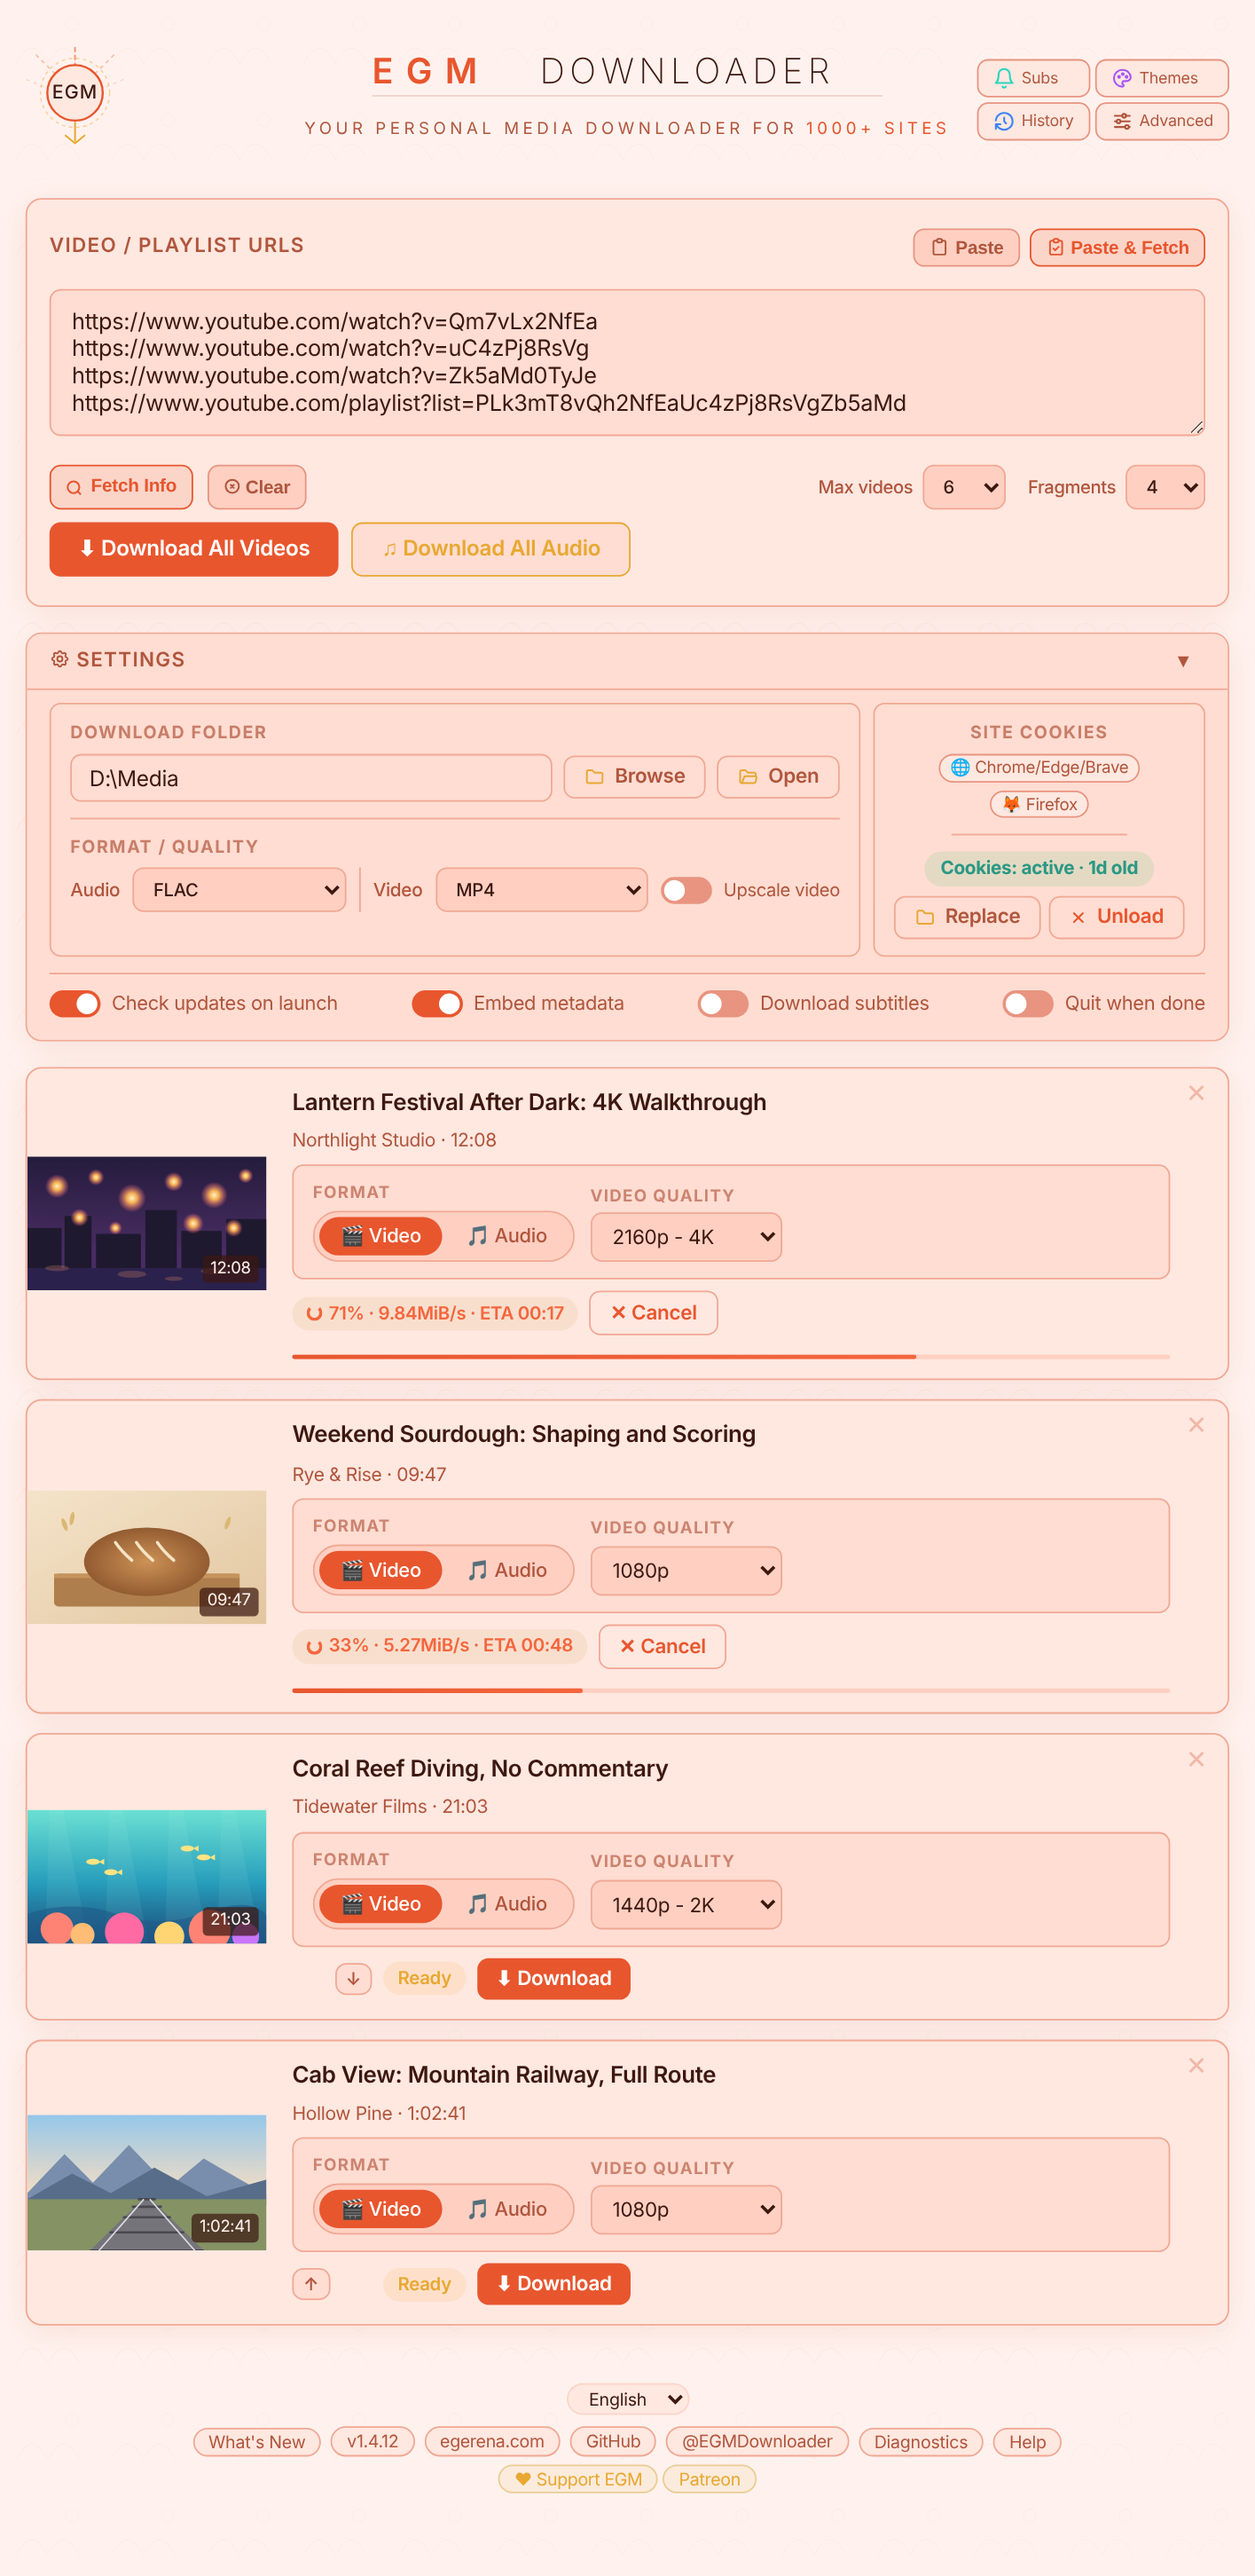
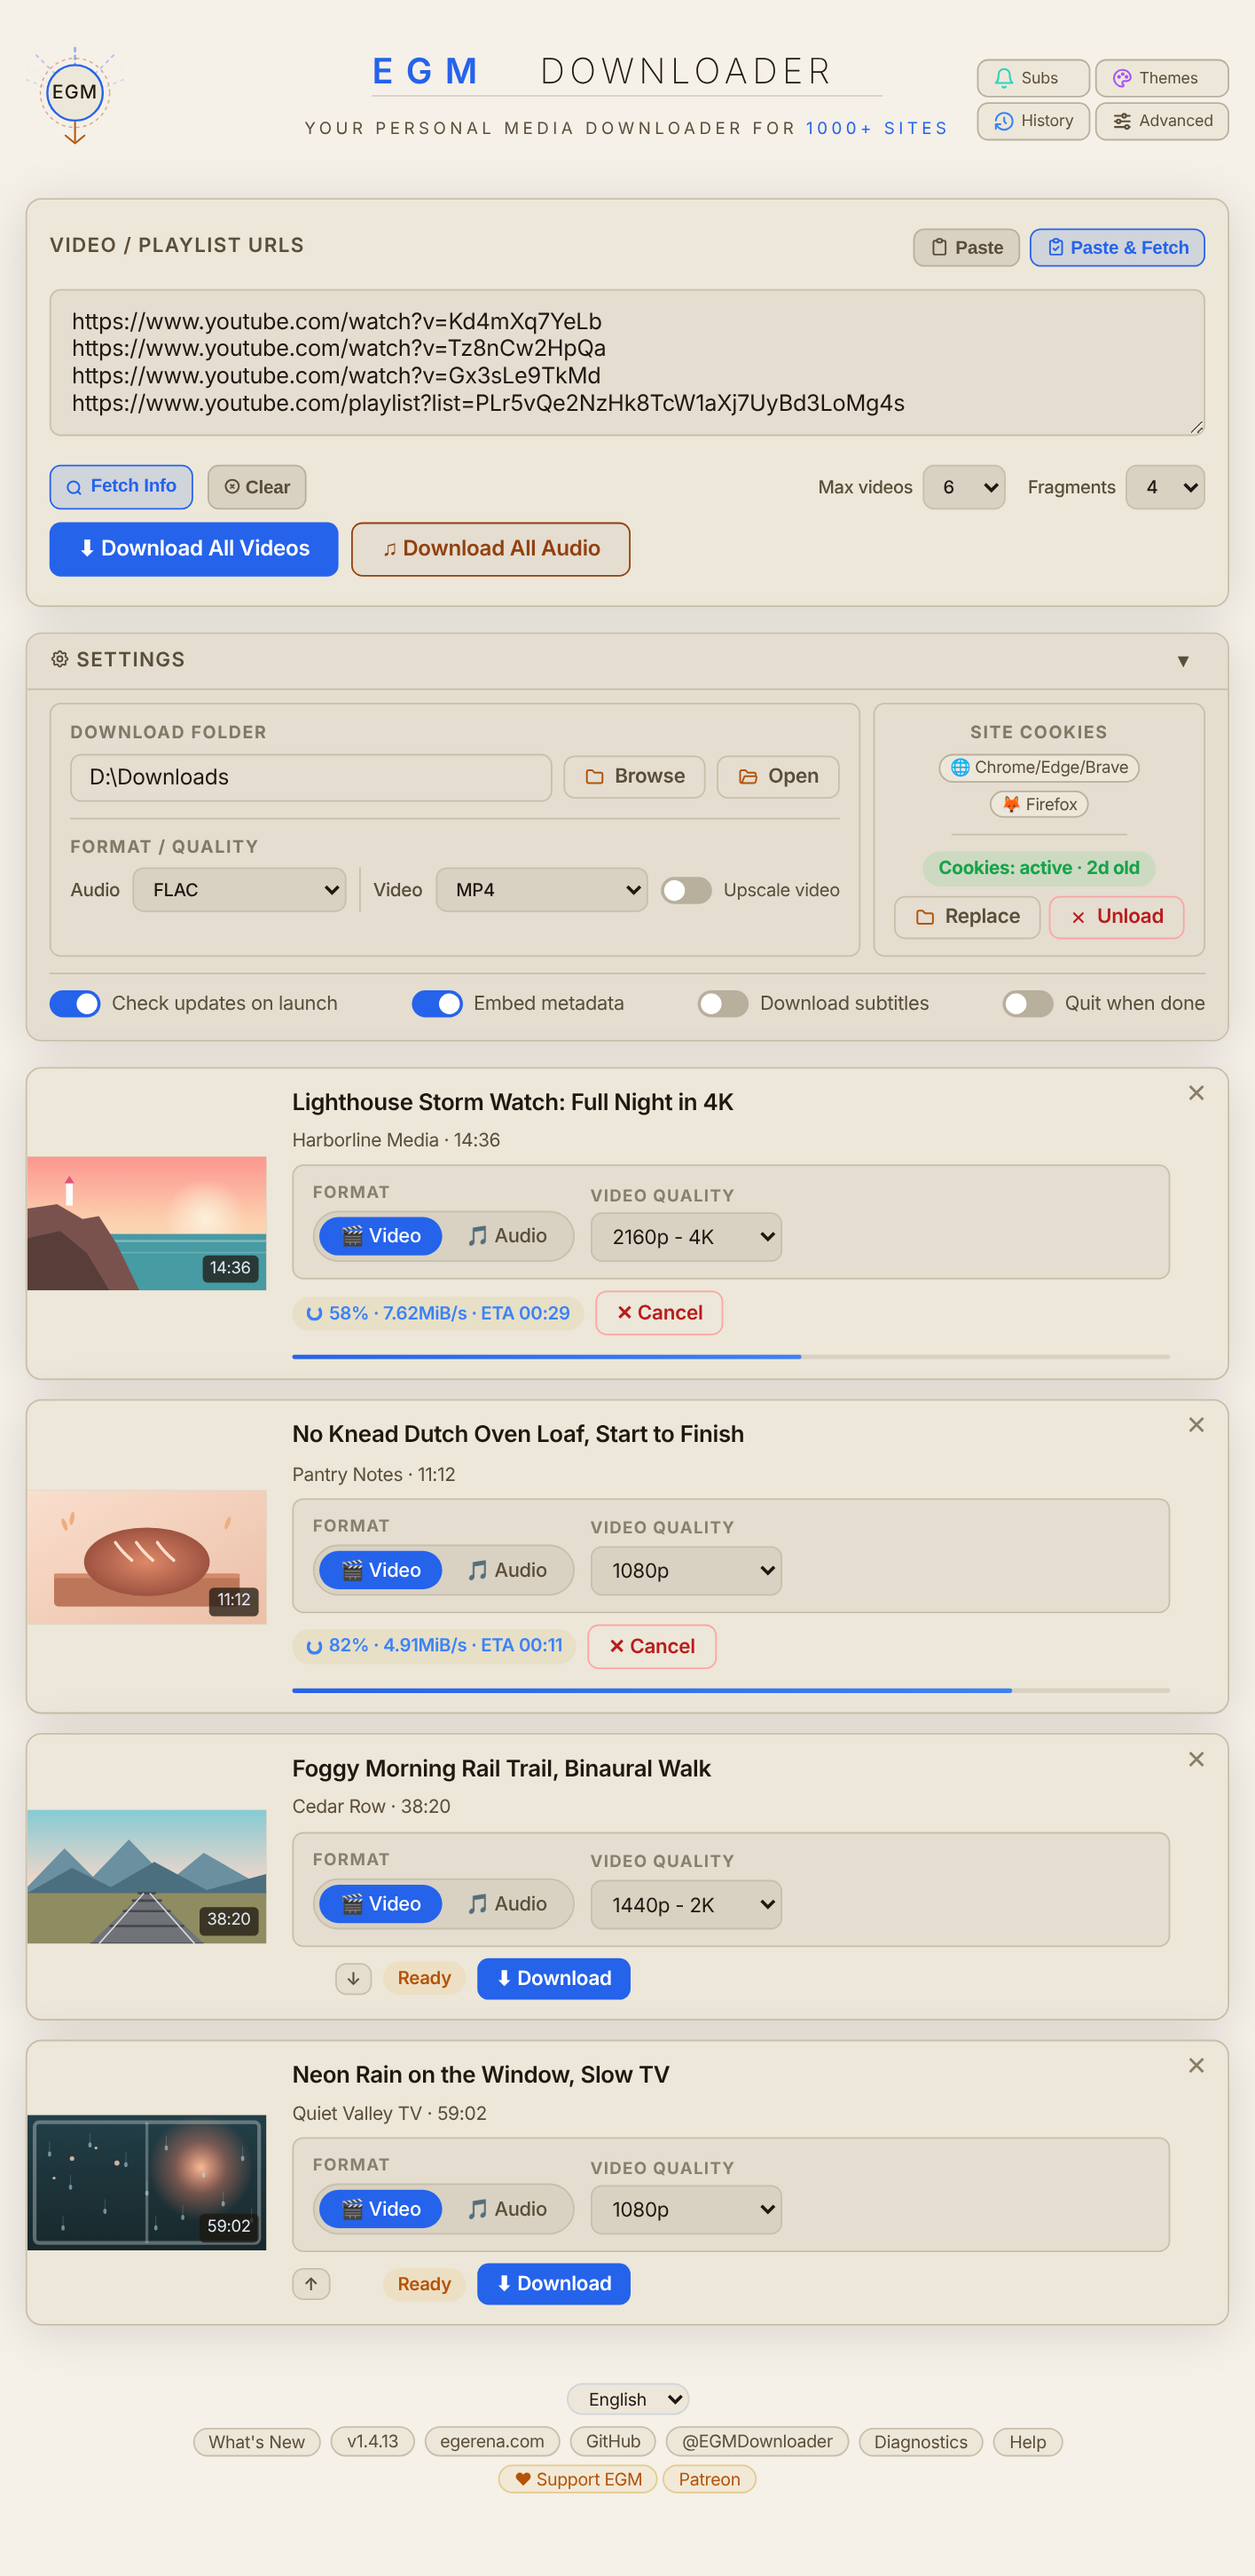
docs: README screenshots updated for v1.4.13
Six new pictures of v1.4.13 in the same layout: main UI, advanced panel,
all themes, subscriptions, the advanced panel with the plugins list and the
download history, each in a different theme (Bone, Night Market, Art Deco,
Europa, Frost, Golden Hour). The splash screen is unchanged. The caption
names the release and the theme labels follow the pictures.

diff --git a/README.md b/README.md
@@ -79,7 +79,7 @@ A side by side look at one well known alternative, using details you can check y
 
 ## 🖼 Screenshots
 
-> 📸 *Screenshots of v1.4.12, ELECTRON STRIKES BACK. The UI is identical across Windows, macOS, and Linux.*
+> 📸 *Screenshots of v1.4.13, ENCORE. The UI is identical across Windows, macOS, and Linux.*
 
 <table>
   <tr>
@@ -88,12 +88,12 @@ A side by side look at one well known alternative, using details you can check y
       <br/><sub><b>Splash Screen</b></sub>
     </td>
     <td align="center" width="33%">
-      <a href="screenshots/02-main-ui.png"><img src="screenshots/02-main-ui.png" width="260" alt="Main UI, Coral Reef Light theme"/></a>
-      <br/><sub><b>Main UI</b> (Coral Reef Light theme)</sub>
+      <a href="screenshots/02-main-ui.png"><img src="screenshots/02-main-ui.png" width="260" alt="Main UI, Bone theme"/></a>
+      <br/><sub><b>Main UI</b> (Bone theme)</sub>
     </td>
     <td align="center" width="33%">
-      <a href="screenshots/03-advanced-panel.png"><img src="screenshots/03-advanced-panel.png" width="260" alt="Advanced Panel, Vaporwave theme"/></a>
-      <br/><sub><b>Advanced Panel</b> (Vaporwave theme)</sub>
+      <a href="screenshots/03-advanced-panel.png"><img src="screenshots/03-advanced-panel.png" width="260" alt="Advanced Panel, Night Market theme"/></a>
+      <br/><sub><b>Advanced Panel</b> (Night Market theme)</sub>
     </td>
   </tr>
 </table>
@@ -101,12 +101,12 @@ A side by side look at one well known alternative, using details you can check y
 <table>
   <tr>
     <td align="center" width="50%">
-      <a href="screenshots/04-all-themes.png"><img src="screenshots/04-all-themes.png" width="400" alt="All Themes, Amiga theme"/></a>
-      <br/><sub><b>All Themes</b> (Amiga theme)</sub>
+      <a href="screenshots/04-all-themes.png"><img src="screenshots/04-all-themes.png" width="400" alt="All Themes, Art Deco theme"/></a>
+      <br/><sub><b>All Themes</b> (Art Deco theme)</sub>
     </td>
     <td align="center" width="50%">
-      <a href="screenshots/05-subscriptions.png"><img src="screenshots/05-subscriptions.png" width="400" alt="Subscriptions, Big Sur theme"/></a>
-      <br/><sub><b>Subscriptions</b> (Big Sur theme)</sub>
+      <a href="screenshots/05-subscriptions.png"><img src="screenshots/05-subscriptions.png" width="400" alt="Subscriptions, Europa theme"/></a>
+      <br/><sub><b>Subscriptions</b> (Europa theme)</sub>
     </td>
   </tr>
 </table>
@@ -114,12 +114,12 @@ A side by side look at one well known alternative, using details you can check y
 <table>
   <tr>
     <td align="center" width="50%">
-      <a href="screenshots/06-advanced-plugins.png"><img src="screenshots/06-advanced-plugins.png" width="324" alt="Advanced Panel with the plugins list, Aurora theme"/></a>
-      <br/><sub><b>Advanced Panel, Plugins</b> (Aurora theme)</sub>
+      <a href="screenshots/06-advanced-plugins.png"><img src="screenshots/06-advanced-plugins.png" width="324" alt="Advanced Panel with the plugins list, Frost theme"/></a>
+      <br/><sub><b>Advanced Panel, Plugins</b> (Frost theme)</sub>
     </td>
     <td align="center" width="50%">
-      <a href="screenshots/07-download-history.png"><img src="screenshots/07-download-history.png" width="400" alt="Download History, Merlot theme"/></a>
-      <br/><sub><b>Download History</b> (Merlot theme)</sub>
+      <a href="screenshots/07-download-history.png"><img src="screenshots/07-download-history.png" width="400" alt="Download History, Golden Hour theme"/></a>
+      <br/><sub><b>Download History</b> (Golden Hour theme)</sub>
     </td>
   </tr>
 </table>
